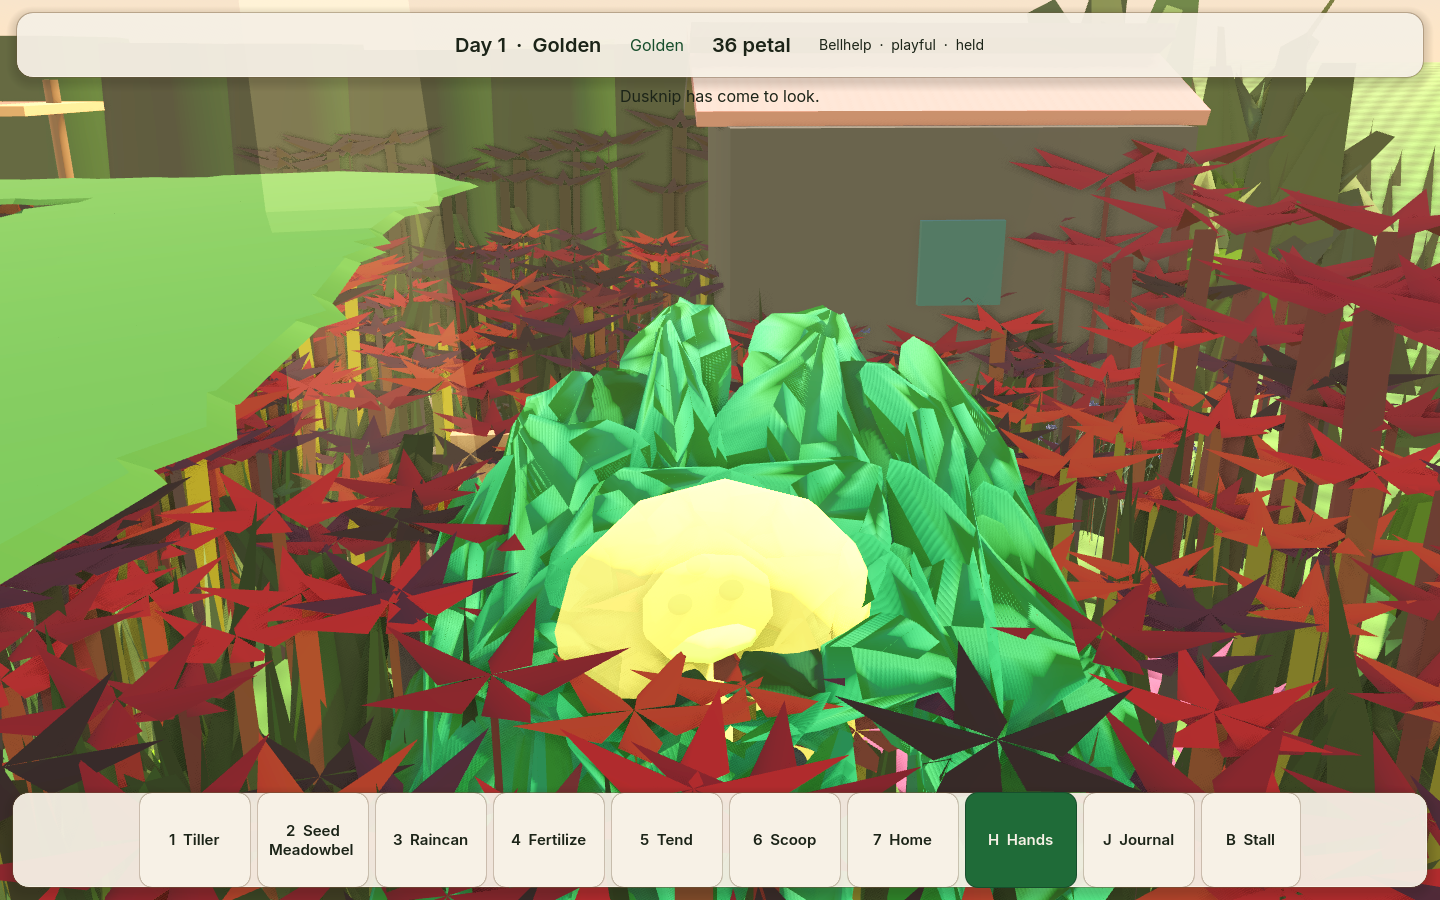
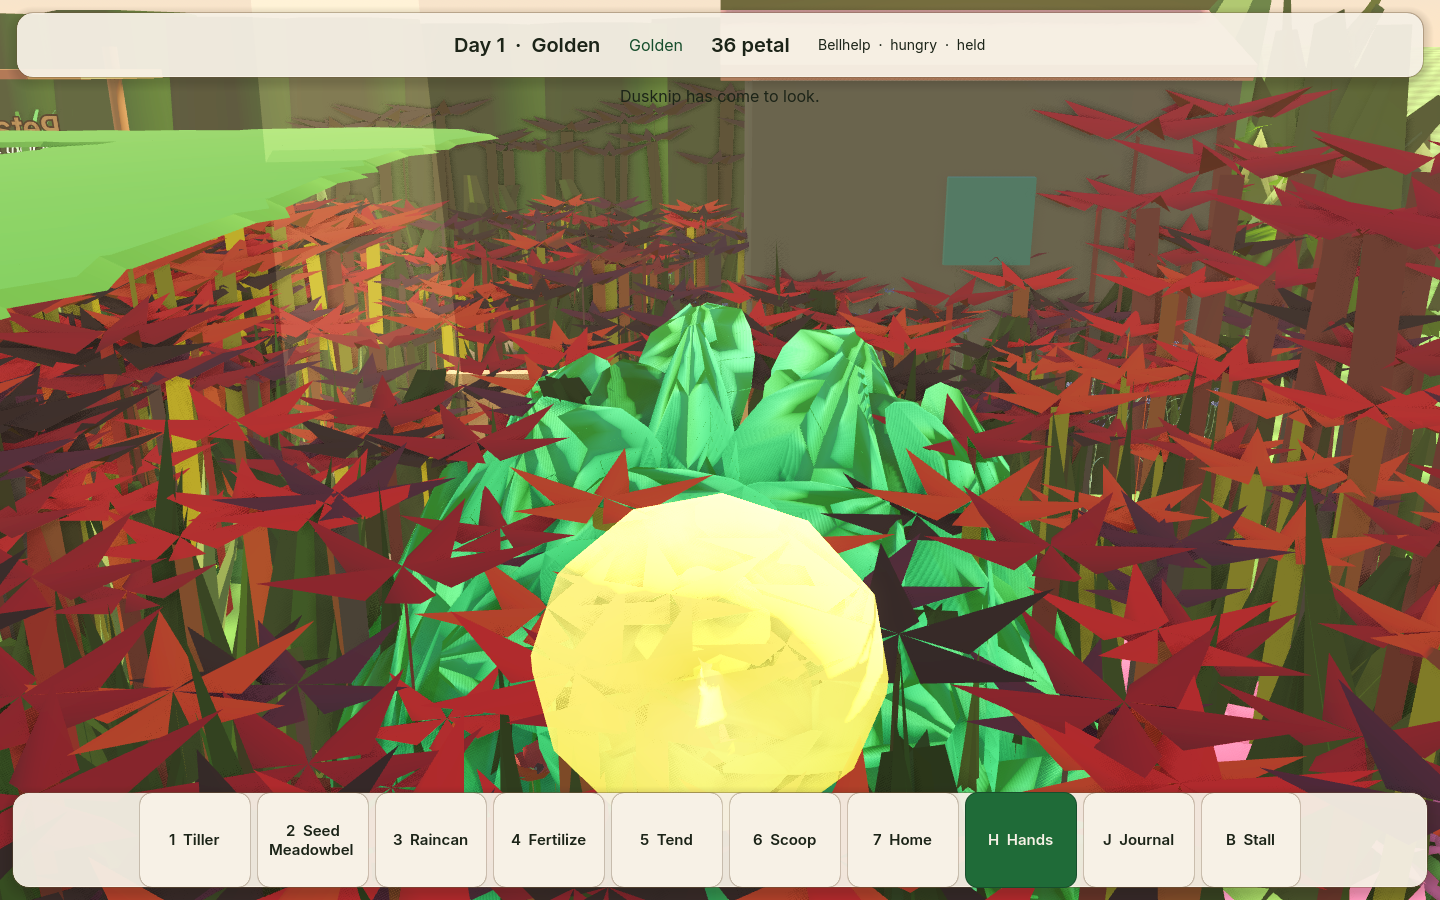
Keep hungry and nuzzle plates on the lane receipt.

diff --git a/docs/lanes/PETAL-03.md b/docs/lanes/PETAL-03.md
@@ -20,7 +20,7 @@ Player can pick up, stretch, squash, throw, bounce, and recover representative j
 ## Branch / commit
 
 - Branch: `petal/03-jelly`
-- Last commit: this tree (jelly play capture + visual QA notes)
+- Last commit: pass 2 (hungry face, species give, nuzzle)
 - Baseline: `cursor/dpo-cpu-decide-9cb0` (`petal-campaign-baseline-20260927`)
 - PR: https://github.com/st5463978-boop/PetalWild/pull/4
 
@@ -37,16 +37,18 @@ Player can pick up, stretch, squash, throw, bounce, and recover representative j
 
 - `Jelly.grab(point)` / `release()` unchanged.
 - New: `Jelly.feel` (`idle|held|air|bounce|recover`), `hit_radius()`, `touch_radius()`, `set_select(on, grabbed)`.
+- Pass 2: `Jelly.is_hungry()`, `shown_mood()`, `nuzzled` / `pet_time`. `reacted` also emits `nuzzle`.
+- `JellyFeel.tune(definition)` from wobble/shape (optional `give` / `bounce`).
 - `Ecology.bump()` separates nearby L0/L1 bodies. Held bodies stay put; the other slides.
 - Hands: mouse height lifts the body (bottom of screen = low, top = high). Drag samples become throw velocity, capped at 11.
-- Halo on hover / held / focus.
+- Halo on hover / held / focus. Hungry hover uses an amber ring.
 
 ## Tests
 
 - `tests/test_jelly.gd` → **JELLY_FEEL_OK**
 - `tests/test_systems.gd` → **SYSTEMS_OK**
 - `tools/smoke.gd` → **PETAL_RULES_OK**
-- `DISPLAY=:1 PETAL_SMOKE=1 tools/run.sh res://scenes/garden.tscn` → **PETAL_SMOKE_OK** (includes `_smoke_jelly_feel`: grab lift, stretch, throw, no tunnel, separate, stall bounce)
+- `DISPLAY=:1 PETAL_SMOKE=1 tools/run.sh res://scenes/garden.tscn` → **PETAL_SMOKE_OK** (includes `_smoke_jelly_feel`: grab lift, stretch, throw, no tunnel, separate, stall bounce, species give, hungry face, nuzzle)
 - `tests/smoke.gd` is a pre-existing parse warning-as-error on Variant inference (line 89). Not this lane.
 
 ## Visual QA
@@ -59,6 +61,37 @@ Player can pick up, stretch, squash, throw, bounce, and recover representative j
 - Land still: **not committed**. Three camera follow attempts looked into crest foliage and missed the body. Physics check still passes (`land_y` finite, not held, not under the lawn). Qwen3-VL is not operational here.
 
 Wave1 capture is unchanged.
+
+## Pass 2
+
+Built on `petal/08-integration` merged at `e897ed1`. Kernel kept. Three feel upgrades:
+
+1. **Hungry face** (PETAL-02). `hunger < 0.28` or `mood == hungry` droops the lids, flattens the mouth, tints the irises amber, and slightly squashes an idle body. Grab still sets `mood` to playful; HUD uses `shown_mood()` so hunger still reads while held.
+2. **Species give**. `JellyFeel.tune` derives spring / stretch / bounce from existing `wobble` and `shape`. Optional `give` / `bounce` keys if 02 adds them. Hold damp stays `0.76` so lift does not regress.
+3. **Still-hold nuzzle** (ecology bond). Stretch under 0.18 for ~0.9s emits `nuzzle`, ticks bond, toasts, and calls `ecology.try_promote`. Stretch over 0.4 cancels. Halo `no_depth_test` so the ring stays readable.
+
+### Tests
+
+- `JELLY_FEEL_OK` — species give, hungry read, nuzzle threshold / yank
+- `SYSTEMS_OK`
+- `PETAL_RULES_OK`
+- `PETAL_SMOKE_OK` — grab lift, stretch, throw, no tunnel, separate, stall bounce, grapling softer than reedic, hungry face, still-hold nuzzle / yank. Leaks **3 CanvasItem / 6 ObjectDB** (baseline).
+- `JELLY_PLAY_OK` — offline decide `bellhelp`. Land camera is still 08's `_pin_overhead`. No new land framing.
+
+### Visual QA
+
+`DISPLAY=:1 PETAL_JELLY_PLAY=1 tools/run.sh res://scenes/garden.tscn` (offline decide).
+
+- `docs/screenshots/jelly_hungry.png`: stall clearing, HUD `Bellhelp · hungry · idle`, flattened yellow cup. Amber iris is in the live face; this plate looks down on the bell so the organs stay on the far side.
+- `docs/screenshots/jelly_held.png`: HUD `Bellhelp · hungry · held`, body lifted and stretched.
+- `docs/screenshots/jelly_nuzzle.png`: toast `Bellhelp nuzzles your hands.`, HUD `happy · held`.
+- `docs/screenshots/jelly_air.png`: airborne squash, toast `Bellhelp spins, dizzy.`
+- `docs/screenshots/jelly_land.png`: 08 overhead pin. Physics `land_y` ~0.54, feel `air`, finite, not held, not under the lawn. Frame still looks into crest foliage. No further land camera from this lane. Qwen3-VL unused.
+
+### Requests
+
+- PETAL-02: optional `give` / `bounce` on a species row is already read; wobble is enough without a schema change.
+- PETAL-08: land still is the same overhead miss; not a 03 follow-cam retry.
 
 ## Requests
 
